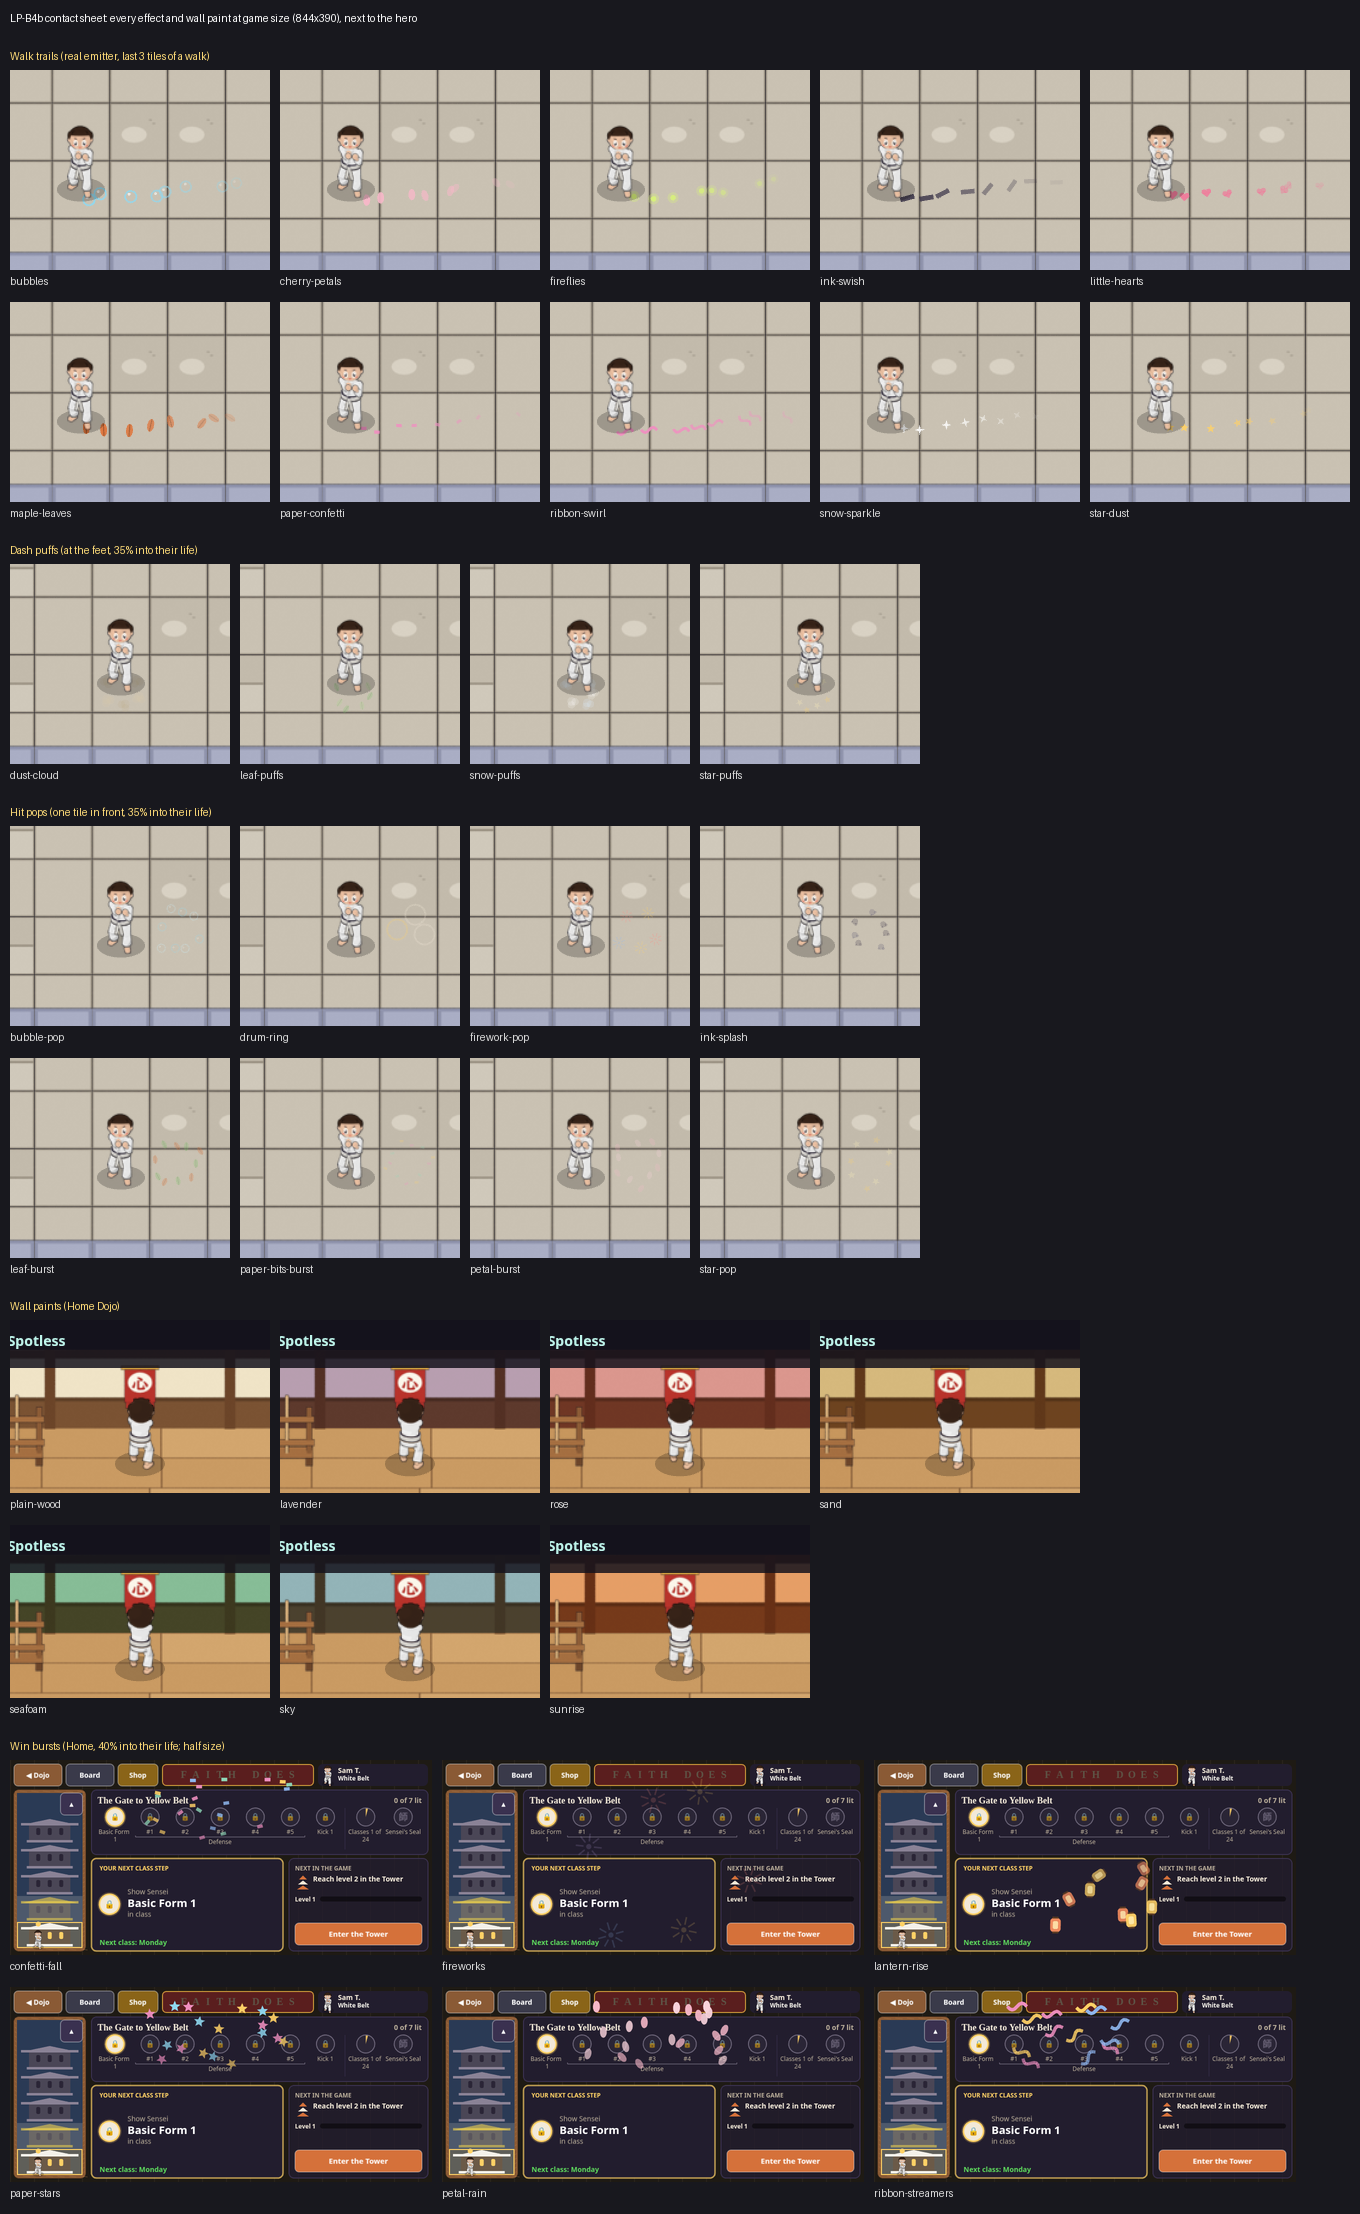
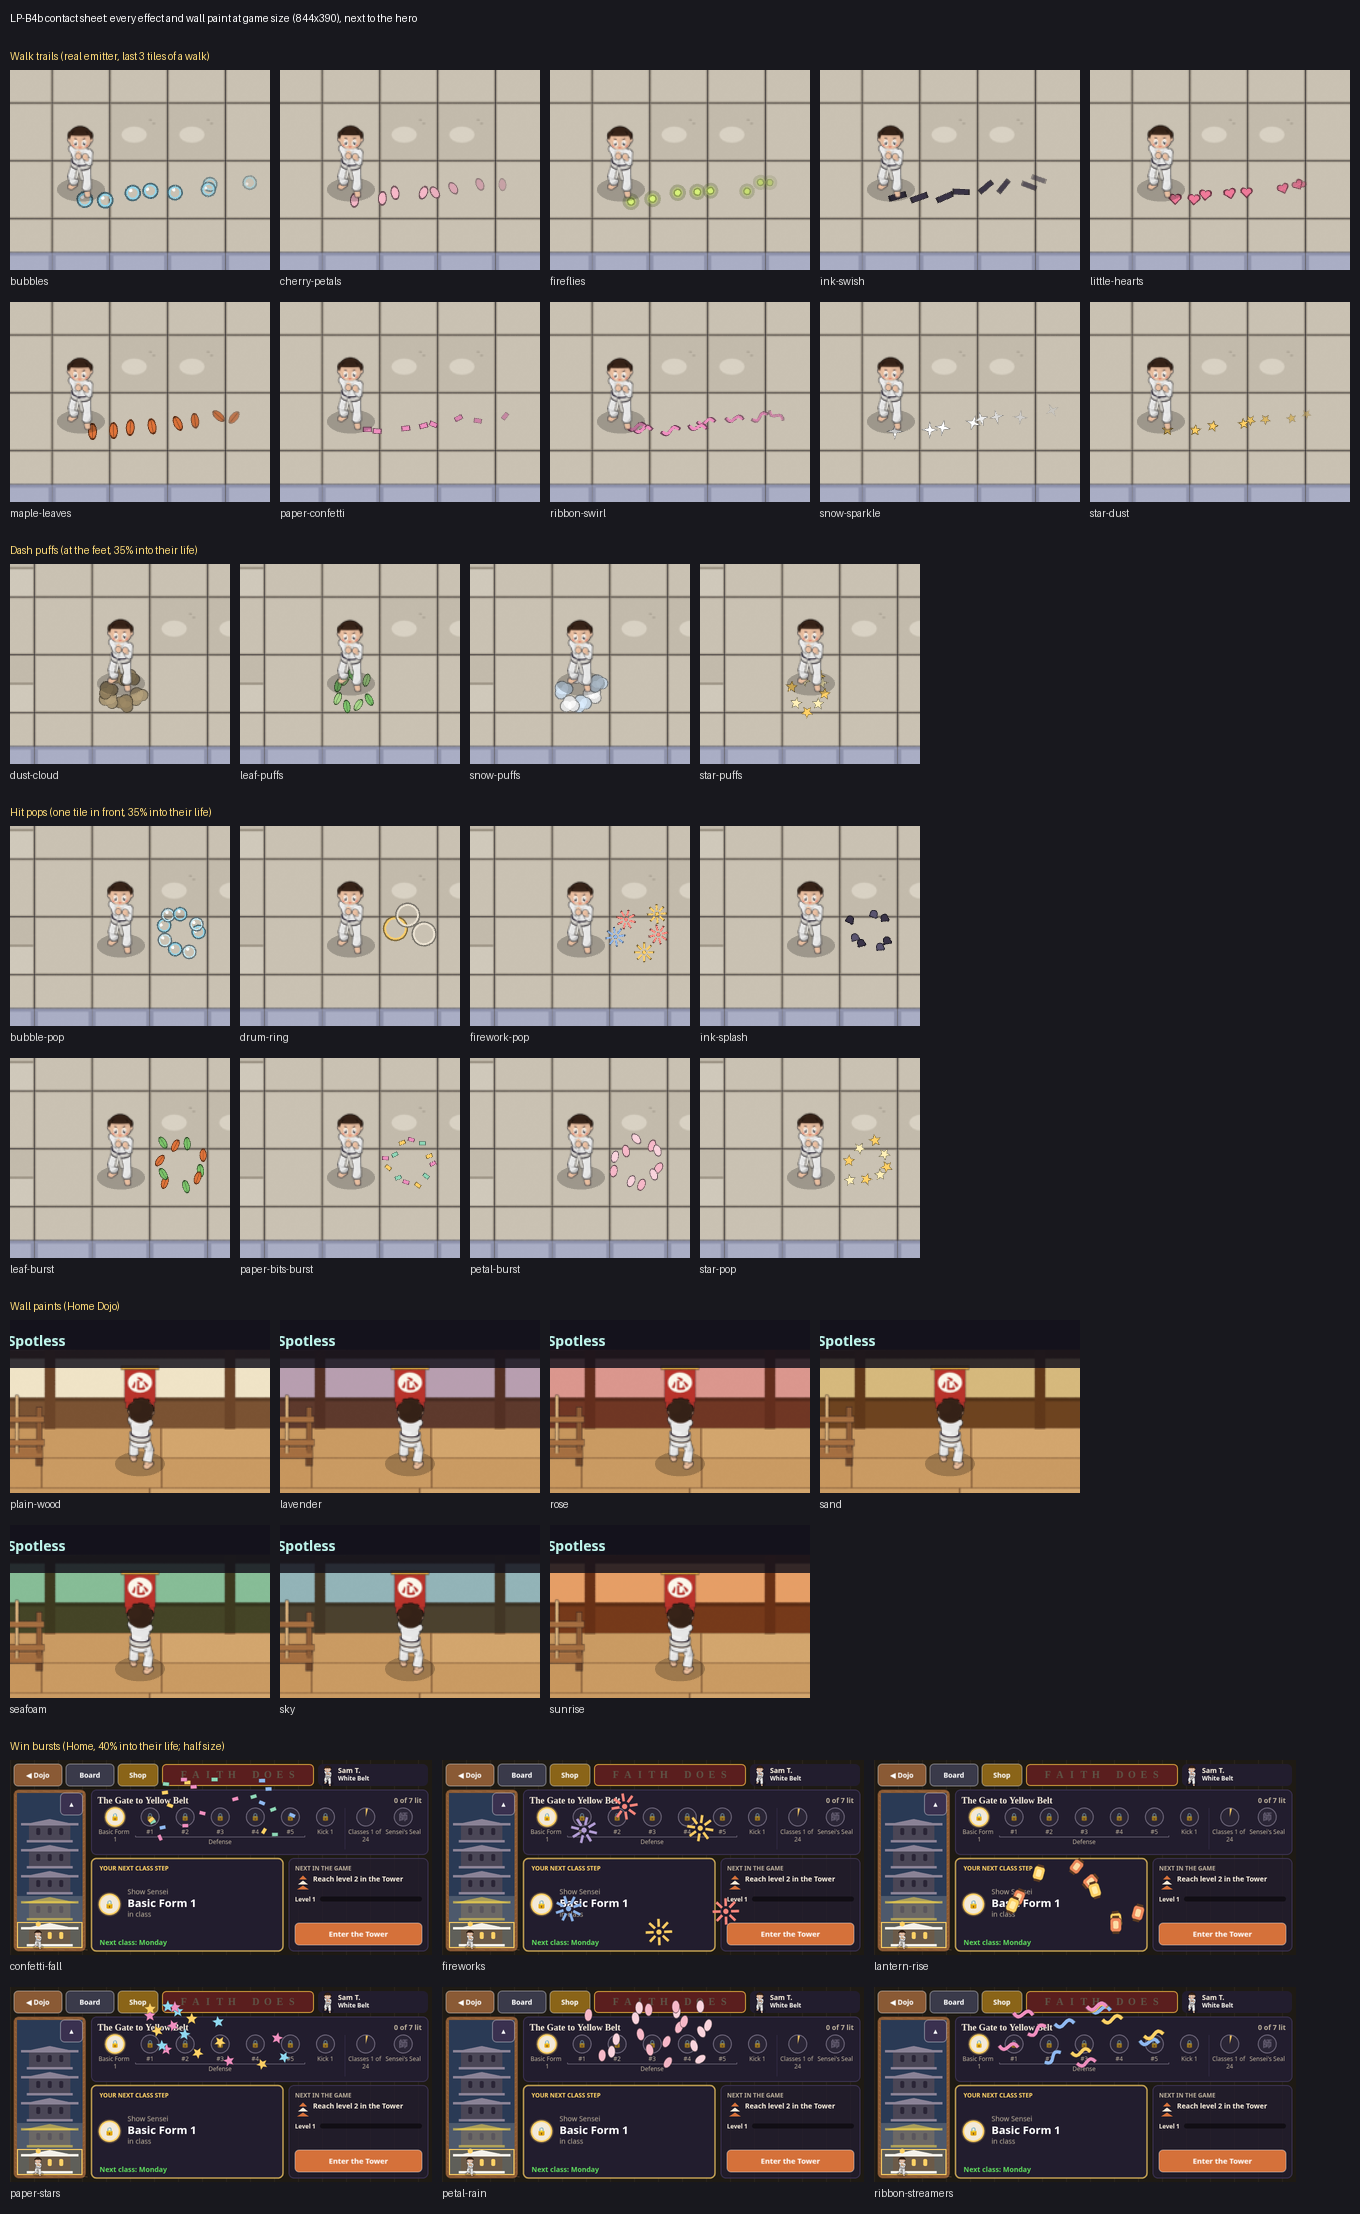
LP-B4b art gate: darker edges, longer full strength, bolder pale effects; before/after sheet

diff --git a/apps/client/src/fx/shopFx.ts b/apps/client/src/fx/shopFx.ts
@@ -14,6 +14,10 @@ export interface FxPlace {
 }
 
 const hex = (c: string) => parseInt(c.slice(1), 16);
+/** The colour at 45% brightness: the edge under each particle, so pale ones read on a light floor too. */
+const edgeOf = (c: number) => (Math.round(((c >> 16) & 255) * 0.45) << 16) | (Math.round(((c >> 8) & 255) * 0.45) << 8) | Math.round((c & 255) * 0.45);
+/** How wide that edge is (px). */
+const EDGE = 1.5;
 
 /** One shape, centred on 0,0, about r pixels from the middle to the edge. */
 export function drawShape(g: Phaser.GameObjects.Graphics, shape: FxShape, r: number, color: number): void {
@@ -82,7 +86,7 @@ export function drawShape(g: Phaser.GameObjects.Graphics, shape: FxShape, r: num
       break;
     case 'firework':
       g.fillStyle(color).fillCircle(0, 0, r * 0.2);
-      g.lineStyle(Math.max(1.5, r * 0.12), color);
+      g.lineStyle(Math.max(2, r * 0.2), color);
       for (let i = 0; i < 8; i++) {
         const a = (i / 8) * Math.PI * 2;
         g.lineBetween(Math.cos(a) * r * 0.4, Math.sin(a) * r * 0.4, Math.cos(a) * r, Math.sin(a) * r);
@@ -93,7 +97,9 @@ export function drawShape(g: Phaser.GameObjects.Graphics, shape: FxShape, r: num
 
 function spawn(scene: Phaser.Scene, f: FxRecipe, p: FxParticle, x: number, y: number, at: FxPlace, done?: () => void): void {
   const g = scene.add.graphics({ x: x + p.x0 * at.tile, y: y + p.y0 * at.tile }).setDepth(at.depth).setName('fx');
-  drawShape(g, f.shape, f.size * at.tile, hex(p.color));
+  const r = f.size * at.tile;
+  drawShape(g, f.shape, r + EDGE, edgeOf(hex(p.color)));
+  drawShape(g, f.shape, r, hex(p.color));
   at.add?.(g);
   const end = () => {
     g.destroy();
@@ -109,7 +115,6 @@ function spawn(scene: Phaser.Scene, f: FxRecipe, p: FxParticle, x: number, y: nu
     x: x + p.x1 * at.tile,
     y: y + p.y1 * at.tile,
     rotation: p.spin,
-    alpha: 0,
     scale: f.motion === 'burst' ? 0.6 : 0.85,
     delay: p.delayMs,
     duration: p.lifeMs,
@@ -117,6 +122,8 @@ function spawn(scene: Phaser.Scene, f: FxRecipe, p: FxParticle, x: number, y: nu
     onStart: () => g.setVisible(true),
     onComplete: end,
   });
+  // Full strength for the first 40% of its life, then it fades out.
+  scene.tweens.add({ targets: g, alpha: 0, delay: p.delayMs + p.lifeMs * 0.4, duration: p.lifeMs * 0.6 });
 }
 
 /** Plays a puff, hit pop or win burst once at x, y (pixels). */

diff --git a/docs/shots/lp-b4b/before-after.py b/docs/shots/lp-b4b/before-after.py
@@ -1,0 +1,23 @@
+# Before/after cells for the effects bolded after the art gate. Usage: python3 before-after.py BEFORE_DIR AFTER_DIR GREEN_DIR OUT.png
+import os, sys
+from PIL import Image, ImageDraw
+
+def cell(path):
+    im = Image.open(path).convert('RGB')
+    return im.resize((im.width * 3 // 10, im.height * 3 // 10), Image.LANCZOS) if im.width > 400 else im  # wins: the whole Home screen, shrunk
+
+before, after, green, out = sys.argv[1:5]
+ids = ['puff-dust-cloud', 'puff-snow-puffs', 'puff-star-puffs', 'puff-leaf-puffs', 'hit-bubble-pop', 'hit-firework-pop', 'hit-leaf-burst', 'hit-paper-bits-burst',
+       'hit-petal-burst', 'hit-star-pop', 'trail-snow-sparkle', 'trail-paper-confetti', 'win-fireworks']
+cols = [('Before (white belt floor)', before), ('After (white belt floor)', after), ('After (green belt floor)', green)]
+pad, lab = 10, 20
+cw = max(cell(f'{after}/{i}.png').width for i in ids)
+W, rowh = pad + (cw + pad) * len(cols) + 170, 200 + pad
+img = Image.new('RGB', (W, 60 + rowh * len(ids)), (24, 24, 30)); d = ImageDraw.Draw(img)
+d.text((pad, 10), 'LP-B4b art-gate fix: darker edge, full strength for 40% of life, bigger pale effects', fill=(255, 255, 255))
+for c, (t, _) in enumerate(cols): d.text((170 + pad + c * (cw + pad), 36), t, fill=(255, 220, 120))
+for r, i in enumerate(ids):
+    y = 60 + r * rowh
+    d.text((pad, y + 90), i, fill=(220, 220, 220))
+    for c, (_, src) in enumerate(cols): img.paste(cell(f'{src}/{i}.png'), (170 + pad + c * (cw + pad), y))
+img.save(out, optimize=True); print(img.size, os.path.getsize(out))

diff --git a/docs/progress.md b/docs/progress.md
@@ -1234,3 +1234,4 @@ I checked every "Next" and "Not done / known limits" note. Only one is a bug: **
 - Looks only: effects never touch the fight (the sim hash and stats are unchanged). Caps: 24 pieces, short lifetimes, no flashes. Reduced motion shows one still picture under half a second, and no trail.
 - Each item is previewed on the hero in the Shop. "Wearing" is now plain text (fixes the Tester's contrast note).
 - Tests: `lp-b4b-effects` (6) and `lp-b4-shop` (15). Phone check `docs/shots/lp-b4b/fx-verify.mjs` at 667x375, 844x390 and 932x430, Reduced motion on and off (shop, a real run, the Dojo wall), plus `contact-sheet.png` of every effect and paint next to the hero. `docs/shots/lp-b4/shop-verify.mjs` is kept as history; it predates the tabs.
+- Art gate fix: every effect now has a darker edge and holds full strength longer; the faint puffs, hit pops, snow and confetti trails and win fireworks are bolder (`docs/shots/lp-b4b/before-after.png`).

diff --git a/docs/decisions.md b/docs/decisions.md
@@ -1887,3 +1887,4 @@ The six Guided/Standard cells PASS at ×1.4685. The three Challenge cells are a 
 - **Wall paint:** a see-through MULTIPLY tint over the Home Dojo back wall, so the dark beams stay dark and only the paper panels take the colour.
 - **Shop tabs:** with 7 groups the shelves no longer fit a 375 px tall phone, so groups sit under 4 tabs.
 - **Placeholders:** effect colours and recipes are the Programmer's picks for the Manager's art gate (contact sheet in `docs/shots/lp-b4b/`).
+- **Art gate fix (Manager, Nov 15):** pale effects were hard to see. Every particle now has a 1.5 px darker edge (its own colour at 45%) and stays at full strength for the first 40% of its life before fading. Pale puffs, hit pops, two trails and the firework spokes are bigger or thicker; the dust cloud is darker. Before/after in `docs/shots/lp-b4b/before-after.png`.
